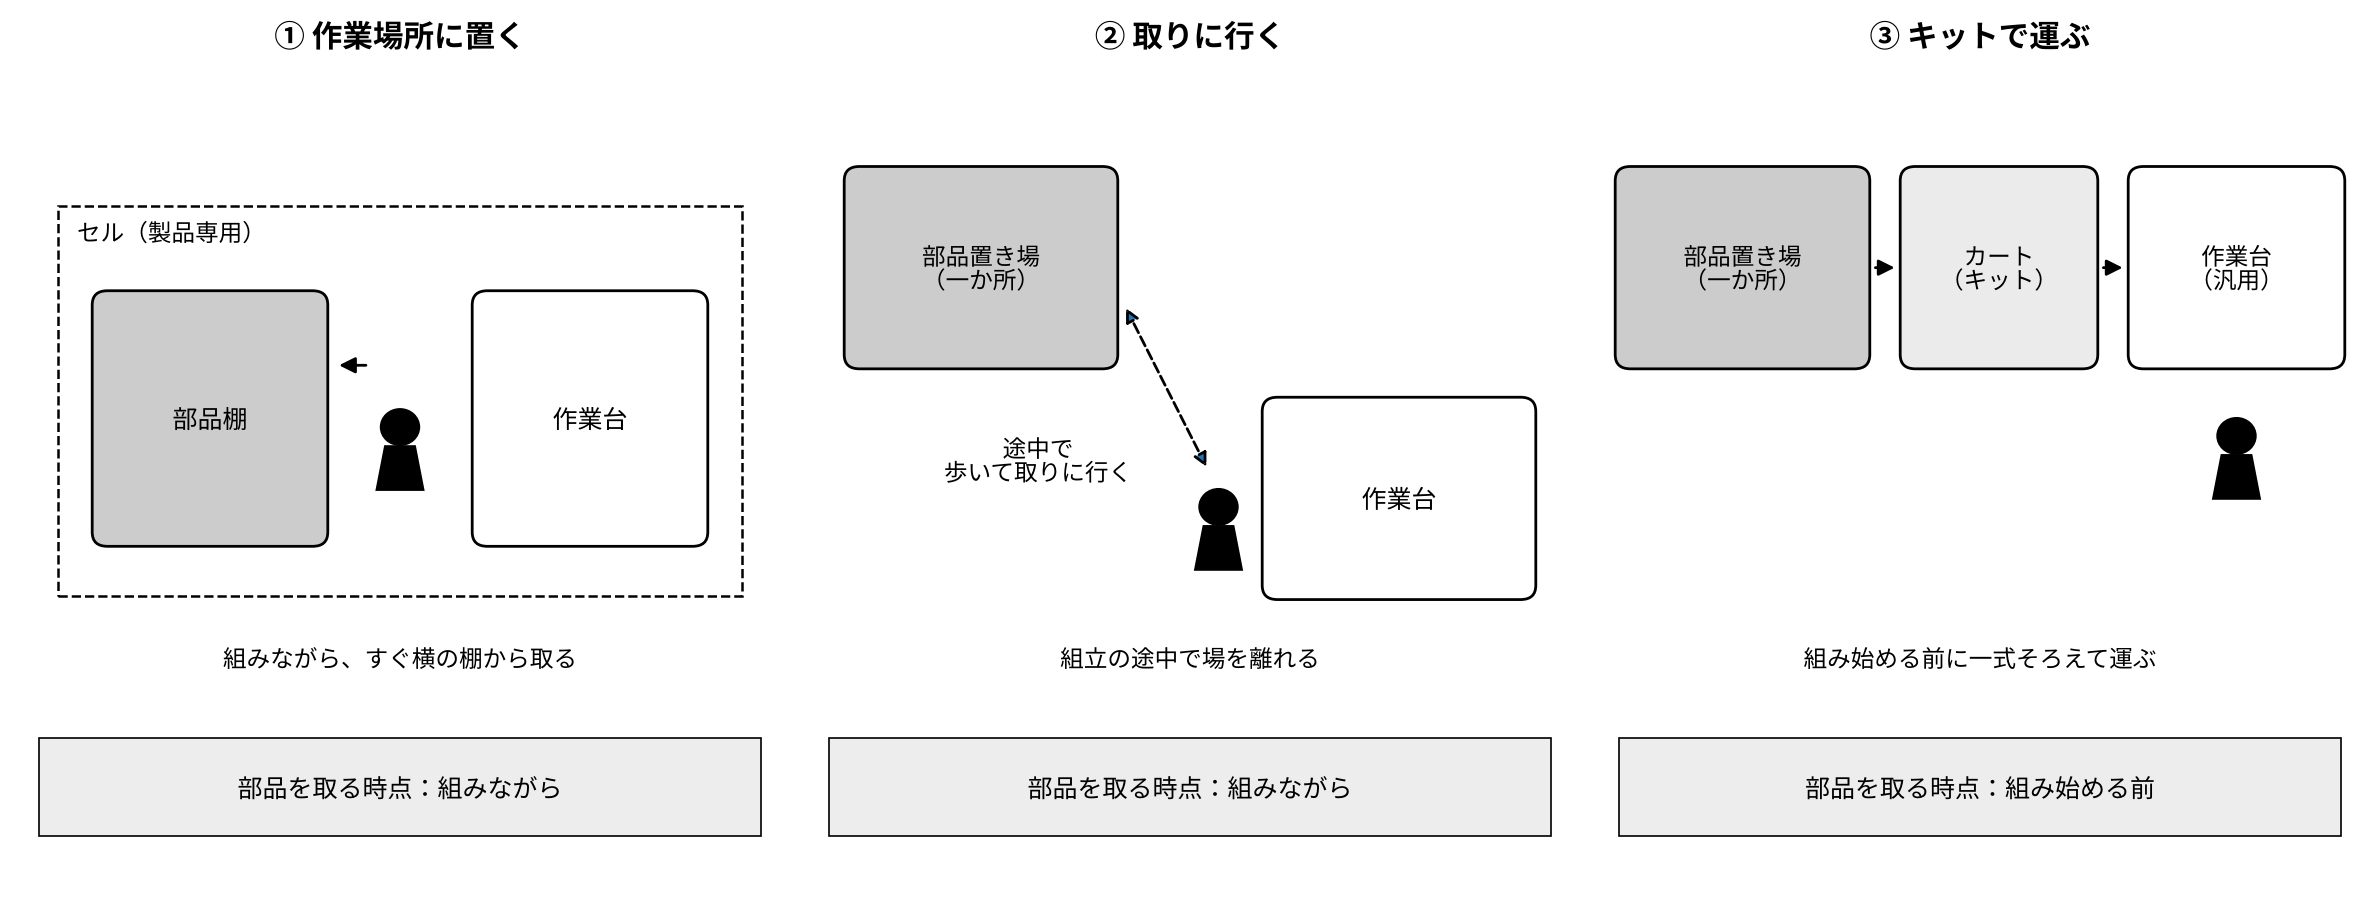
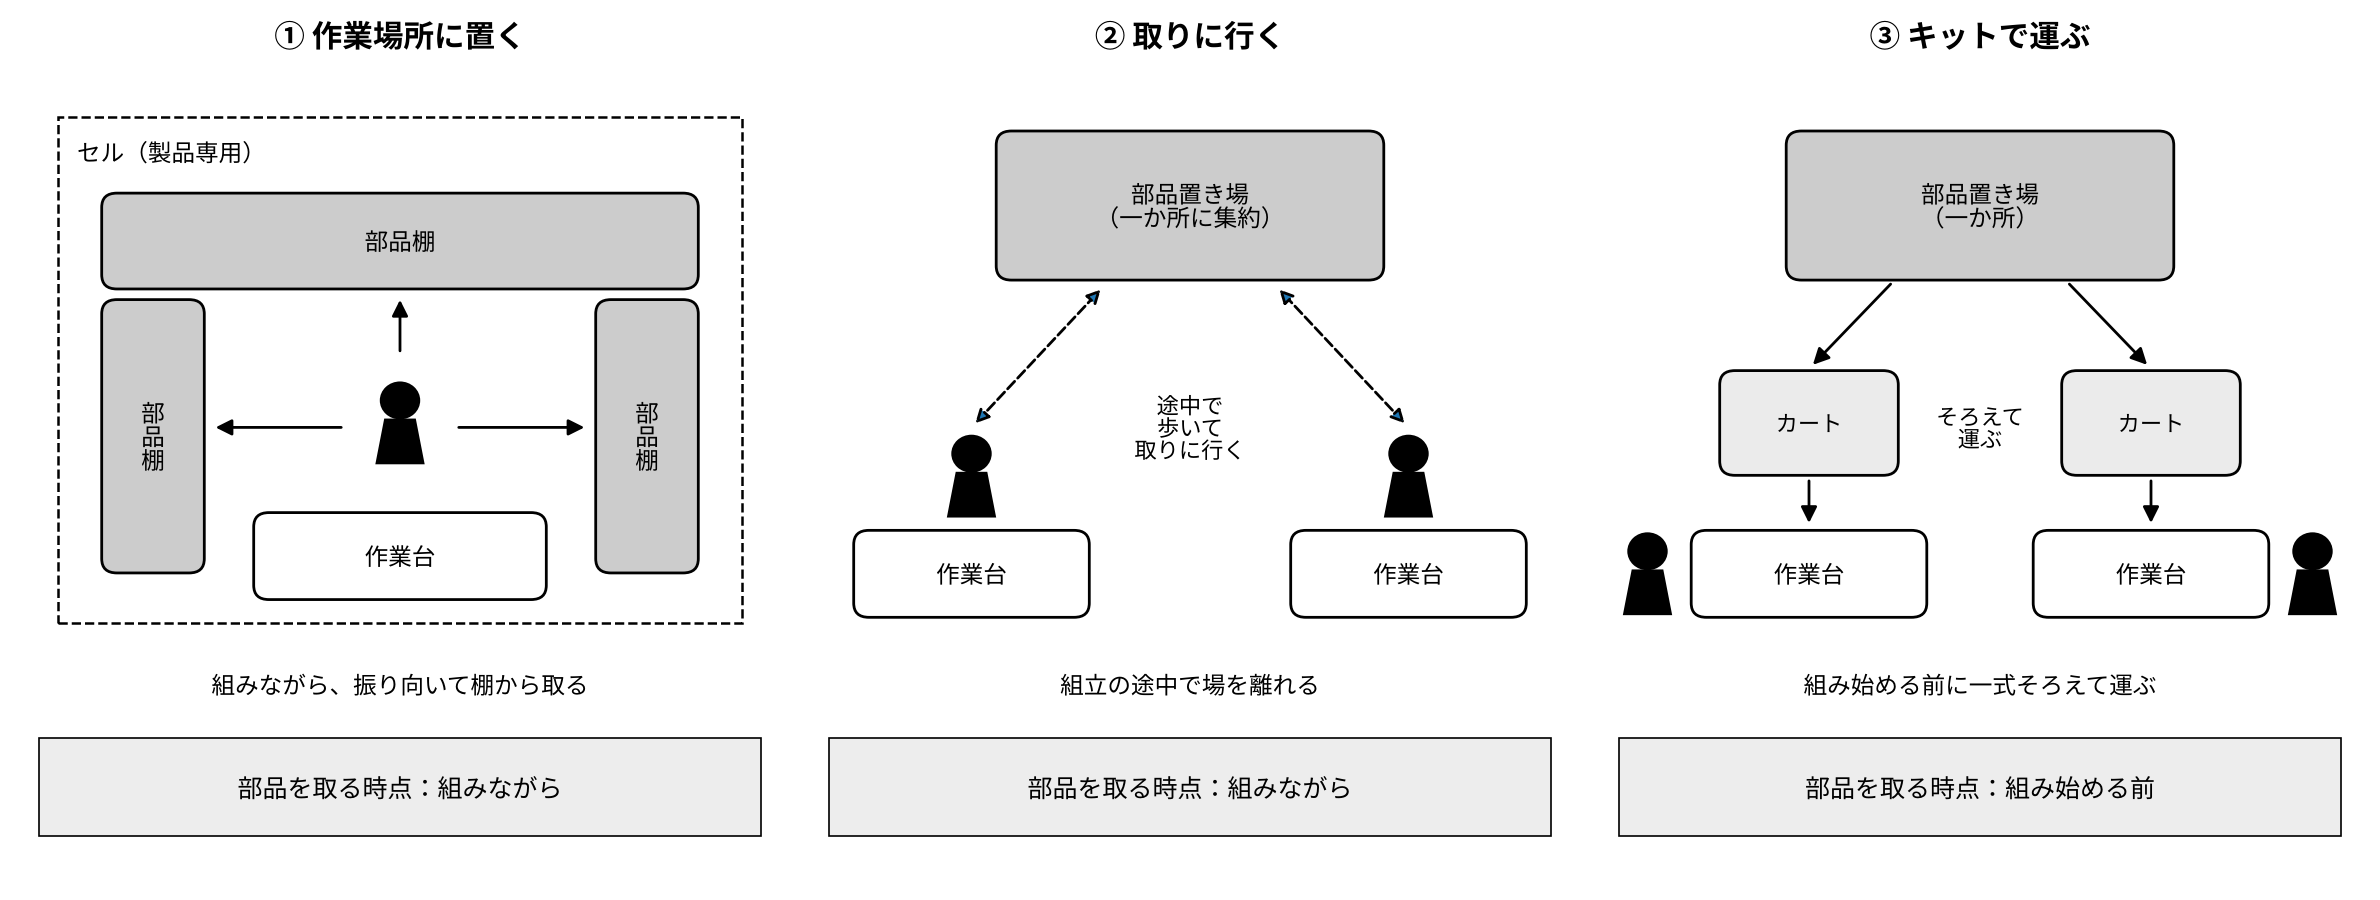
図1-1：①をコの字型のセル、②③を作業台2組に描き直す
Claude-Session: https://claude.ai/code/session_015ijjeCwV7qRARbxqxFA8nM

diff --git a/scripts/ch1_figures.py b/scripts/ch1_figures.py
@@ -35,33 +35,41 @@ def fig1_1():
         ax.set_ylim(0, 4.6)
         ax.set_axis_off()
         ax.set_title(t, fontsize=11, fontweight="bold")
-    # ①
+    # ① セル方式：部品棚がコの字に作業者を囲み、作業者は作業台と向き合う
     a = axes[0]
-    a.add_patch(Rectangle((0.2, 1.6), 3.6, 2.2, fill=False, ls="--", lw=0.9))
-    a.text(0.3, 3.6, "セル（製品専用）", fontsize=8.5)
-    rbox(a, 0.4, 1.9, 1.2, 1.4, "部品棚", fc="0.8", fs=9)
-    rbox(a, 2.4, 1.9, 1.2, 1.4, "作業台", fs=9)
-    person(a, 2.0, 2.2)
-    arrow(a, 1.85, 2.9, 1.65, 2.9)
-    a.text(2.0, 1.2, "組みながら、すぐ横の棚から取る", ha="center", fontsize=8.5)
-    # ②
+    a.add_patch(Rectangle((0.2, 1.45), 3.6, 2.85, fill=False, ls="--", lw=0.9))
+    a.text(0.3, 4.05, "セル（製品専用）", fontsize=8.5)
+    rbox(a, 0.45, 3.35, 3.1, 0.5, "部品棚", fc="0.8", fs=8.5)
+    rbox(a, 0.45, 1.75, 0.5, 1.5, "部\n品\n棚", fc="0.8", fs=8.5)
+    rbox(a, 3.05, 1.75, 0.5, 1.5, "部\n品\n棚", fc="0.8", fs=8.5)
+    rbox(a, 1.25, 1.6, 1.5, 0.45, "作業台", fs=8.5)
+    person(a, 2.0, 2.35)
+    arrow(a, 2.0, 2.95, 2.0, 3.3)
+    arrow(a, 1.72, 2.55, 1.0, 2.55)
+    arrow(a, 2.28, 2.55, 3.0, 2.55)
+    a.text(2.0, 1.05, "組みながら、振り向いて棚から取る", ha="center", fontsize=8.5)
+    # ② 部品置き場を一か所に集め、複数の作業台から取りに行く
     a = axes[1]
-    rbox(a, 0.2, 2.9, 1.4, 1.1, "部品置き場\n（一か所）", fc="0.8", fs=8.5)
-    rbox(a, 2.4, 1.6, 1.4, 1.1, "作業台", fs=9)
-    person(a, 2.15, 1.75)
-    a.annotate("", xy=(1.65, 3.25), xytext=(2.1, 2.3),
-               arrowprops=dict(arrowstyle="<|-|>", lw=1.0, ls="--"))
-    a.text(1.2, 2.25, "途中で\n歩いて取りに行く", ha="center", fontsize=8.5)
-    a.text(2.0, 1.2, "組立の途中で場を離れる", ha="center", fontsize=8.5)
-    # ③
+    rbox(a, 1.0, 3.4, 2.0, 0.8, "部品置き場\n（一か所に集約）", fc="0.8", fs=8.5)
+    for bx in (0.25, 2.55):
+        rbox(a, bx, 1.5, 1.2, 0.45, "作業台", fs=8.5)
+        person(a, bx + 0.6, 2.05)
+        a.annotate("", xy=(1.55 if bx < 1 else 2.45, 3.35), xytext=(bx + 0.6, 2.55),
+                   arrowprops=dict(arrowstyle="<|-|>", lw=1.0, ls="--"))
+    a.text(2.0, 2.55, "途中で\n歩いて\n取りに行く", ha="center", va="center", fontsize=8)
+    a.text(2.0, 1.05, "組立の途中で場を離れる", ha="center", fontsize=8.5)
+    # ③ 一か所の部品置き場で一式そろえ、カートで各作業台へ運ぶ
     a = axes[2]
-    rbox(a, 0.1, 2.9, 1.3, 1.1, "部品置き場\n（一か所）", fc="0.8", fs=8.5)
-    rbox(a, 1.6, 2.9, 1.0, 1.1, "カート\n（キット）", fc="0.92", fs=8.5)
-    rbox(a, 2.8, 2.9, 1.1, 1.1, "作業台\n（汎用）", fs=8.5)
-    arrow(a, 1.42, 3.45, 1.58, 3.45)
-    arrow(a, 2.62, 3.45, 2.78, 3.45)
-    person(a, 3.35, 2.15)
-    a.text(2.0, 1.2, "組み始める前に一式そろえて運ぶ", ha="center", fontsize=8.5)
+    rbox(a, 1.0, 3.4, 2.0, 0.8, "部品置き場\n（一か所）", fc="0.8", fs=8.5)
+    for bx in (0.5, 2.3):
+        rbox(a, bx + 0.15, 2.3, 0.9, 0.55, "カート", fc="0.92", fs=8)
+        arrow(a, 1.55 if bx < 1 else 2.45, 3.38, bx + 0.6, 2.88)
+        arrow(a, bx + 0.6, 2.28, bx + 0.6, 1.98)
+        rbox(a, bx, 1.5, 1.2, 0.45, "作業台", fs=8.5)
+    person(a, 0.25, 1.5)
+    person(a, 3.75, 1.5)
+    a.text(2.0, 2.55, "そろえて\n運ぶ", ha="center", va="center", fontsize=8)
+    a.text(2.0, 1.05, "組み始める前に一式そろえて運ぶ", ha="center", fontsize=8.5)
     for a, when in zip(axes, ["部品を取る時点：組みながら", "部品を取る時点：組みながら",
                               "部品を取る時点：組み始める前"]):
         a.add_patch(Rectangle((0.1, 0.25), 3.8, 0.55, fc="0.93", ec="black", lw=0.6))
